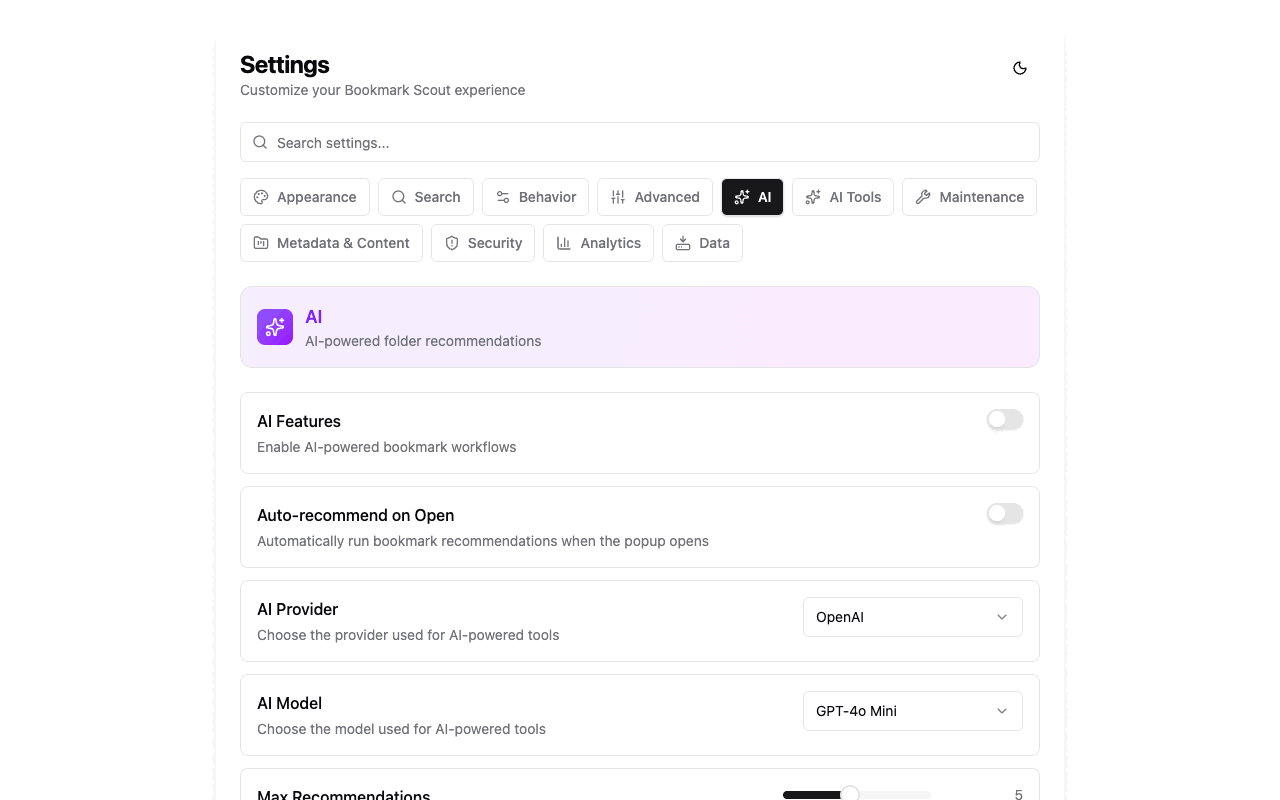
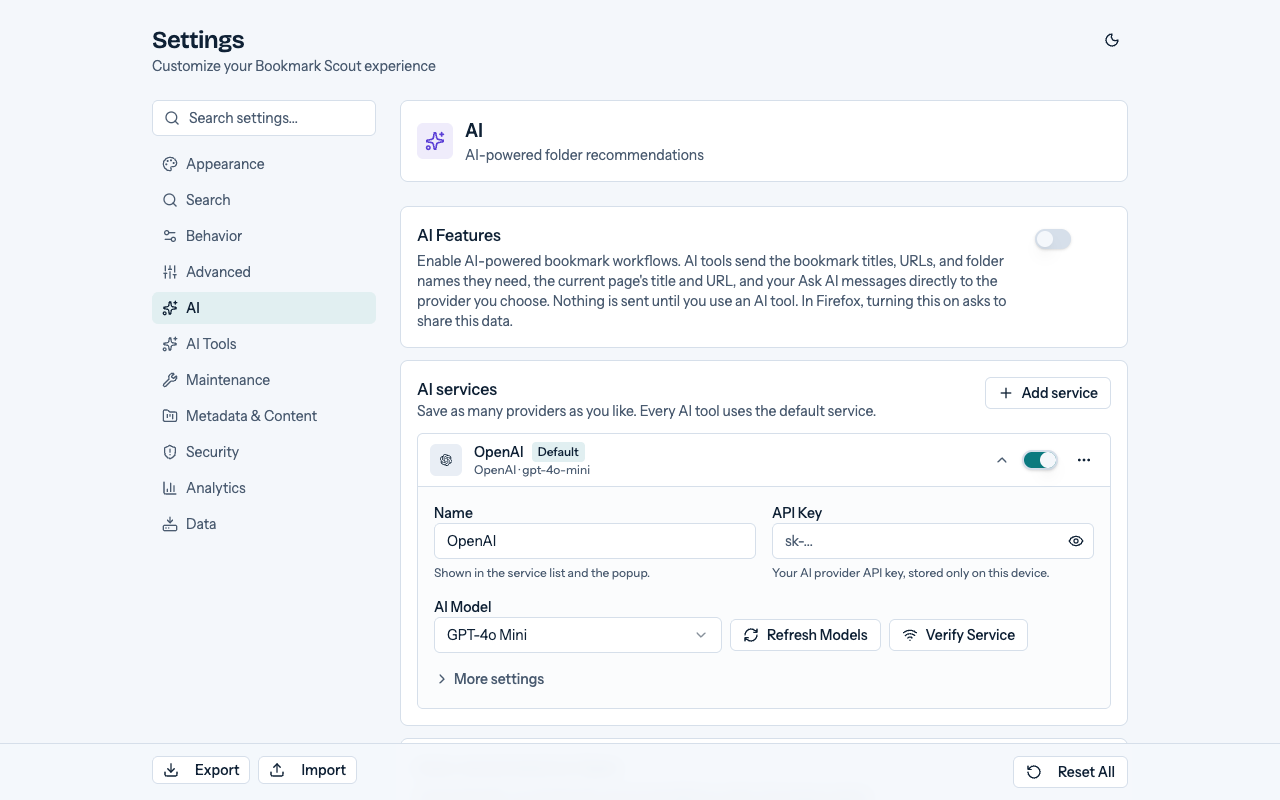
📝 docs(store): disclose AI data and add the Limited Use statement for Chrome review (#575)
- Privacy policy (store copy and website, en/ja/ko): add the Chrome Web Store
  Limited Use statement, clarify that pages are read only with Read page
  content on, and move the effective date to 2026-10-08.
- Extension: the AI Features toggle now says what AI tools send and to whom,
  in every browser, not only Firefox.
- Store listings: sync the en/ja/ko descriptions with the submitted dashboard
  copy (Ask AI, Read page content, Refresh Site Icons, optional right-click
  menu, full list of data sent to the provider).
- Record the data-usage answers submitted for 0.3.0.
- Recapture the two Options screenshots for the redesigned settings page.

diff --git a/store/listings/ja.md b/store/listings/ja.md
@@ -62,7 +62,7 @@ Bookmark Scout（ブックマークスカウト）は、ブラウザを離れず
 • すべてのブックマークを即時検索（大文字と小文字の区別、単語単位、正規表現に対応）
 • ドラッグ＆ドロップ、すべて展開／折りたたみ、新規フォルダ作成ができるフォルダツリー
 • 表示中のページを任意のフォルダにワンクリックで保存（同じフォルダには重複保存しません）
-• 右クリックメニューからリンクを最近使ったフォルダに保存
+• 右クリックメニュー（設定で「コンテキストメニュー」をオン）からリンクを最近使ったフォルダに保存
 • 同じツリーと検索を使えるサイドパネル
 • ブラウザの Ctrl/Cmd ショートカットを妨げないキーボードショートカット
 • 確認ダイアログ（既定でオン）と 10 秒間の元に戻す付きの削除
@@ -77,10 +77,11 @@ Bookmark Scout（ブックマークスカウト）は、ブラウザを離れず
 • メタデータ取得：ページタイトルを提案し、選んだものだけを適用
 • プライバシースキャナー：ブックマーク内の機密性の高いクエリパラメータ、URL フラグメント、メールアドレス、UUID を検出
 • 統計：ドメイン、フォルダ、階層の深さ、重複
+• サイトアイコンを更新：サードパーティのアイコンサービスを使わず、各サイト自身のアイコンを取得
 • HTML または JSON からのインポート（プレビュー、重複の扱いの選択、元に戻すに対応）
 • HTML、JSON、Markdown、CSV へのエクスポート（機密値を伏せ字にできるプライバシー確認付き）
 
-リンク切れチェックとメタデータ取得は、初回実行時にウェブサイトへのアクセス（任意の権限）を求めます。インストール時には付与されず、拒否した場合はスキャンを行いません。
+リンク切れチェック、メタデータ取得、サイトアイコンを更新、および AI 設定の「ページの内容を読む」は、初回使用時にウェブサイトへのアクセス（任意の権限）を求めます。インストール時には付与されず、リクエストは Cookie なしで送信され、拒否した場合はその機能がオフのままになります。
 
 オプトインの AI ツール（既定でオフ）
 設定で AI を有効にし、OpenAI、Anthropic、Google、Groq、Mistral、DeepSeek、OpenRouter、Ollama、CLIProxyAPI、または OpenAI 互換のエンドポイントを選びます。API キーが必要なプロバイダーでは自分のキーを使います。
@@ -88,8 +89,10 @@ Bookmark Scout（ブックマークスカウト）は、ブラウザを離れず
 • 保存前に確認できるタグ候補と短い要約
 • フォルダ再編成プラン（既定では適用前にプレビュー）
 • 選択したブックマークを AI チャット用の Markdown または XML としてエクスポート（AI なしで使え、何も送信しません）
+• AI に質問：ブックマークについてチャットでき、AI は該当するブックマーク、フォルダ名、表示中のページを参照できます
+• ページの内容を読む（既定でオフ）：タイトルと URL に加えて各ページの本文も送信し、提案の精度を高めます
 
-AI 機能を使うと、その機能に必要なブックマークのタイトル、URL、フォルダ名が、ブラウザから選択したプロバイダーへ直接送信され、そのプロバイダーの規約に従って扱われます。Bookmark Scout には何も送信されません。API キーはこのブラウザのローカル拡張機能ストレージに保存され、同期されません。プロバイダーの利用には料金がかかる場合があります。
+AI 機能を使うと、その機能に必要なデータがブラウザから選択したプロバイダーへ直接送信され、そのプロバイダーの規約に従って扱われます。送信されるのは、ブックマークのタイトル、URL、フォルダ名、保存したタグと要約、表示中のページのタイトルと URL、「AI に質問」のメッセージ、そして「ページの内容を読む」をオンにした場合のみ対象ページの本文です。Bookmark Scout には何も送信されません。API キーはこのブラウザのローカル拡張機能ストレージに保存され、同期されません。プロバイダーの利用には料金がかかる場合があります。
 
 プライバシー
 • アカウント登録、アナリティクス、トラッキング、広告はありません

diff --git a/store/listings/en.md b/store/listings/en.md
@@ -56,7 +56,7 @@ import export bookmarks
 
 ## Full description: Chrome Web Store and Edge Add-ons
 
-Plain text, 3,146 characters. Before using it for Edge, complete the Edge bookmarks-page check in `../checklists/edge-addons.md`; if the override does not apply in Edge, remove the "Bookmarks manager" and "Maintenance tools" sections and the manager-only AI tools.
+Plain text, 3,758 characters. Before using it for Edge, complete the Edge bookmarks-page check in `../checklists/edge-addons.md`; if the override does not apply in Edge, remove the "Bookmarks manager" and "Maintenance tools" sections and the manager-only AI tools.
 
 ```text
 Bookmark Scout helps you find, file, and tidy your bookmarks without leaving the browser.
@@ -66,7 +66,7 @@ SEARCH AND SAVE FROM THE TOOLBAR
 • Folder tree with drag and drop, expand and collapse all, and new folders
 • Save the current page to any folder with one click; a page already in that folder is not saved twice
 • Side panel with the same tree and search
-• Save links from the right-click menu into recent folders
+• Optional right-click menu (turn on Context Menu in Settings) to save links into recent folders
 • Keyboard shortcuts that never take over browser Ctrl/Cmd shortcuts
 • Delete with a confirmation dialog (on by default) and a 10-second Undo
 
@@ -80,10 +80,11 @@ MAINTENANCE TOOLS
 • Metadata Fetcher: suggest page titles and apply only the ones you select
 • Privacy Scanner: find sensitive query parameters, URL fragments, email addresses, and UUIDs in bookmarks
 • Statistics: domains, folders, depth, and duplicates
+• Refresh Site Icons: fetch each site's own icon, with no third-party icon service
 • Import from HTML or JSON with a preview, duplicate handling, and Undo
 • Export to HTML, JSON, Markdown, or CSV, with an optional privacy review that can redact sensitive values
 
-The Dead Link Checker and Metadata Fetcher ask for optional website access the first time you run them. It is never granted at install, and declining it simply stops the scan.
+The Dead Link Checker, Metadata Fetcher, Refresh Site Icons, and the Read page content AI setting ask for optional website access the first time you use them. It is never granted at install, requests are sent without cookies, and declining it simply turns that feature off.
 
 OPT-IN AI TOOLS (OFF BY DEFAULT)
 Turn on AI in Settings and choose OpenAI, Anthropic, Google, Groq, Mistral, DeepSeek, OpenRouter, Ollama, CLIProxyAPI, or any OpenAI-compatible endpoint, with your own API key where the provider requires one.
@@ -91,8 +92,10 @@ Turn on AI in Settings and choose OpenAI, Anthropic, Google, Groq, Mistral, Deep
 • Tag suggestions and short summaries that you review before saving
 • Folder reorganization plans, previewed before anything changes (default)
 • Export selected bookmarks as Markdown or XML context for an AI chat (works without AI and sends nothing)
+• Ask AI: chat about your bookmarks; the AI can look up matching bookmarks, your folder names, and the current page
+• Read page content (off by default): send each page's readable text, not only its title and URL, for better suggestions
 
-When you use an AI feature, the bookmark titles, URLs, and folder names it needs are sent directly from your browser to the provider you chose, under that provider's terms. Nothing is sent to Bookmark Scout. Your API key is kept in this browser's local extension storage and is not synced. Provider usage may cost money.
+When you use an AI feature, the data it needs is sent directly from your browser to the provider you chose, under that provider's terms: bookmark titles, URLs, folder names, and saved tags and summaries; the current page's title and URL; your Ask AI messages; and, only with Read page content on, the text of the pages involved. Nothing is sent to Bookmark Scout. Your API key is kept in this browser's local extension storage and is not synced. Provider usage may cost money.
 
 PRIVACY
 • No account, no analytics, no tracking, no ads

diff --git a/store/privacy-policy.md b/store/privacy-policy.md
@@ -2,7 +2,7 @@
 
 > **Published** at <https://bookmark-scout.com/en/privacy/> (live once the website is next deployed from `main`), with Japanese and Korean versions at <https://bookmark-scout.com/ja/privacy/> and <https://bookmark-scout.com/ko/privacy/>. The website copy lives in `apps/website/messages/privacy/{en,ja,ko}.json` and the effective date in `config/project.toml` (`[legal] privacy_effective_date`). Keep this file, the three message files, and the date in step: change all of them together, and set a new effective date when the policy changes. Use the English URL as the privacy policy URL in every store.
 
-**Effective date:** October 3, 2026
+**Effective date:** October 8, 2026
 **Applies to:** the Bookmark Scout browser extension for Chrome, Microsoft Edge, and Firefox, version 0.3.0 and later; the website `bookmark-scout.com`; and the documentation site `docs.bookmark-scout.com`
 
 This policy is also available in Japanese and Korean. If a translation differs from the English version, the English version applies.
@@ -18,6 +18,8 @@ This policy is also available in Japanese and Korean. If a translation differs f
 
 Bookmark Scout works inside your browser. It has no account, no analytics, no ads, and no server of its own. The developer does not receive your bookmarks or any other data from the extension. Data leaves your browser only when you use an optional feature that needs the network, and then it goes directly to the service you chose.
 
+Bookmark Scout's use of information received through browser extension APIs adheres to the Chrome Web Store User Data Policy, including the Limited Use requirements.
+
 ## What the extension reads
 
 - **Your bookmarks**, to show, search, edit, move, delete, import, and export them.
@@ -25,7 +27,7 @@ Bookmark Scout works inside your browser. It has no account, no analytics, no ad
 - **Site icons from your browser's own icon cache** (Chrome and Edge), to show next to bookmarks. No network request is made for them.
 - **Site icons from the bookmarked websites**, only when you run Refresh Site Icons (see below).
 
-The extension does not read the content of the pages you visit and has no content scripts.
+The extension has no content scripts and does not read the pages open in your tabs. Only when you turn on Read page content does it download pages separately, as described below.
 
 ## What the extension stores
 

diff --git a/store/README.md b/store/README.md
@@ -102,7 +102,7 @@ Suggested order for the Chrome Web Store (5 maximum): 01, 02, 03, 04, 06. Firefo
 - Theme left at the default `system`; light and dark come from the emulated OS color scheme, so Options shows no "Modified" badges.
 - The runner opens the popup as a tab, so its "current tab" would be the popup itself. The capture script stubbed `tabs.query` for the active tab to return a public MDN page instead. No other behavior was changed.
 - Site icons are real: before capturing, the script ran **Refresh Site Icons** over all bookmarks and saved the results, in a copy of the build whose manifest grants the optional website access (as the E2E `grantWebHostAccess` fixture does, because the permission prompt cannot be answered headlessly). Icons came only from the bookmarked sites. Sites without a usable same-site icon (`developer.chrome.com`, `example.com`, `example.org`) keep the generic globe, as they would for a user.
-- Recaptured on 2026-10-02 from `main` after the Refresh Site Icons tool landed (#501). The same eight files are copied to `apps/website/public/screenshots/` and `apps/docs/public/screenshots/`; the website generates its AVIF and WebP variants from them at build time.
+- Recaptured on 2026-10-02 from `main` after the Refresh Site Icons tool landed (#501). The two Options captures (`04-options-ai-light.png`, `08-options-ai-dark.png`) were recaptured on 2026-10-08 for the redesigned Options page and the new AI toggle text; they are plain 1280×800 page captures of `options.html` with the AI section selected. The same eight files are copied to `apps/website/public/screenshots/` and `apps/docs/public/screenshots/`; the website generates its AVIF and WebP variants from them at build time.
 - Raw captures stay in `~/.cache/bookmark-scout-qa/store-icons/` (not committed). Curated files were re-encoded with ImageMagick (reduced palette, saved as 24-bit RGB without alpha) to keep each file around 75 to 130 KB.
 
 Screenshots show the English UI. Localized screenshots for `ja` and `ko` were not produced; the stores accept the English set for every locale.

diff --git a/store/privacy-disclosures.md b/store/privacy-disclosures.md
@@ -54,6 +54,8 @@ Ollama and custom endpoints can point to a server on the user's own machine, in 
 
 The Chrome Web Store asks which user data the extension collects. Bookmark Scout never sends data to its developer, but the AI features send data to a third party the user picks, and the network tools contact bookmarked sites. Disclosing conservatively is the safer reading of the User Data policy. **The final choice is the maintainer's.**
 
+Submitted for 0.3.0 (2026-10-08): the maintainer left every category unchecked, because the developer receives no data and AI requests go straight from the browser to a provider the user picks. The reviewer notes (Test instructions) explain this, and the listing description names everything the AI features send. If review rejects the item for undisclosed data, check Authentication information, Web history, and Website content as suggested below.
+
 | Category | Suggested answer | Reason |
 | --- | --- | --- |
 | Personally identifiable information | No | Not collected |
